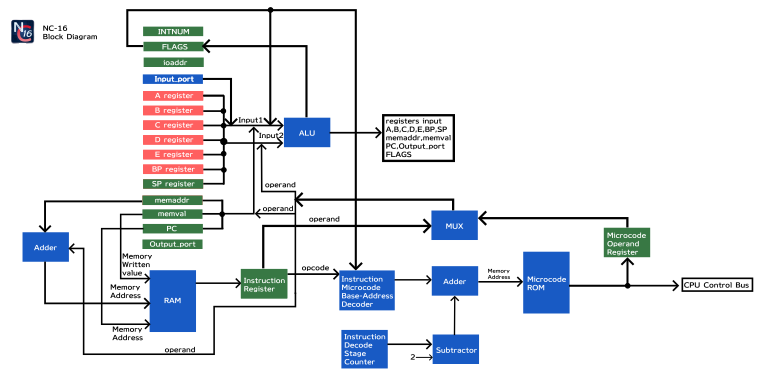
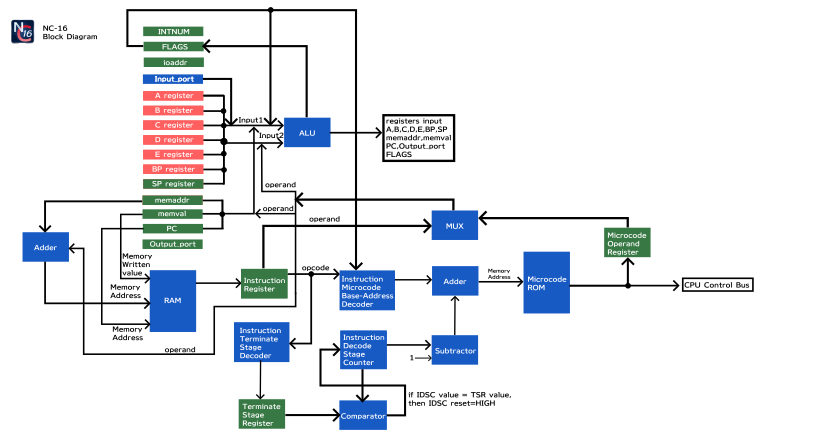
新しい命令デコード方式にドキュメントの記載を変更（回路は未変更）

Changed region(s): [[0.0, 0.0, 0.9948, 1.0]]

diff --git a/doc/Instruction_Decoder_Specification.md b/doc/Instruction_Decoder_Specification.md
@@ -1,11 +1,40 @@
 # Instruction_Decoder_Specification
-## 命令実行までの過程
-　命令の実行はメモリからInstruction Registerに命令とデータを取り込み、その後命令デコーダにオペコードを投入することによって行われます。
+## 命令実行までの過程（概要）
+　本節ではRAMに格納された命令がCPUによって読みだされ実行されるまでの過程について解説します。
 
-　いつ命令を取り込み、どのタイミングで取り込んだ命令を実行するかは、Instruction Decorder付近に配置されているInstruction Fetch Counterによって管理しています。カウンタの値が指定の値になると、命令フェッチ終了=命令実行すべきタイミング、と判断しInstruction Execute信号に1を出力します。命令実行が終了すると、カウンタはゼロにリセットされ、命令フェッチを再開します。
+　現状のNC-16には、他市販CPUで見られるようなパイプライン実行、Out of Order実行等の高速化のための機構は搭載されていません。命令フェッチ、命令解釈、命令実行の各手順をメモリに記載されている順番通りに行うだけです。
 
-　命令カウンタ付近についている部品群は、jmp命令やメモリ操作命令で、命令のフェッチタイミングがずれたときに補正するためのものです。jmp命令やメモリ操作命令で移動中でもクロックはカウンタに入力されます。つまり本来命令をフェッチしていないにも関わらず、フェッチされたという判定になってしまいます。このままだと命令のフェッチタイミングがずれ、正常に命令が取り込まれなくなります。これを防ぐため、適正なカウンタ値となるよう補正処理を行っています。
-　プログラムカウンタ周辺にある部品も同様の理由です。jmp命令やメモリ操作によって、プログラムカウンタの値がずれ正常に命令を取り込めなくなります。補正をかけて正常に命令を取り込めるようにしています。
+　CPUの制御はCPU Control BUSを用いて行われます。CPU Control BUSに、CPUに行わせたい処理に応じた信号を出力した状態でクロックを立ち上げると所定の処理が行われます。命令デコーダ部はメモリから読み取った命令種別に応じて、適切なタイミングで適切な信号をCPU Control BUSに流す役割を負っています。
+
+　命令デコードは複数の"ステージ"に分割されます。ステージとは命令デコードの段階を表す用語です。命令デコードにおいては、ある段階ではRAMから命令をロードする、ある段階では命令を実行する、のように段階ごとに実行すべき事柄は変わります。ハードウェアロジックでこれらの処理を直接組もうとすると回路が大変複雑になりますから、「今どのステージを実行しているのか」を表す値を別途持っておいて、その値に応じて各部の処理が変化するようにしています。
+
+　ステージの実体は8bitの符号なし整数です。処理が進むごとに0ステージ目、1ステージ目……のように1ずつカウントアップしていきます。ステージはクロックが立ち上がる時カウントアップします。ステージの値はIDSCで管理しています。
+
+　一つの機械語には複数のマイクロコードが対応します（一つのマイクロコードが対応する場合もあります）。マイクロコードとはCPUの処理を機械語よりも細かい単位で記述したものであり、NC-16ではCPU Control BUS信号の羅列を指します（厳密には異なる。詳細は後述）。マイクロコードはMicrocode ROMに格納されています。どの機械語にどのマイクロコードを対応させるか、すなわちどの機械語に該当のマイクロコードが格納されているベースアドレスを対応させるか、といった対応付けはIMBDで行われています。
+
+　命令は次の手順で実行されます。
+1. 0ステージ目：RAMからIRへオペコードを転送する。
+2. 1ステージ目：RAMからIRへオペランドを転送する。
+3. 2ステージ目：
+   1. IMBDにオペコードを入力し、機械語に対応するマイクロコードが格納されているメモリアドレスをMicrocode ROMに入力する。2ステージ目終了時、Microcode ROMに格納されているマイクロコードが実行される。マイクロコードの終端ステージ数もこのステージで併せて出力する。終端ステージ数とは、指定したベースアドレスから何個のマイクロコードが格納されているかを表す値である。末尾のマイクロコードの次のマイクロコードが実行された時点におけるステージ数を出力する。例えば一つの機械語に対し2つのマイクロコードが対応している場合、終端ステージ数は1+2+1=5となる。
+   2. 2ステージ目以降のステージでは、IDSCのリセットによって0ステージ目に復帰するまで、PCへのクロック供給を停止する。
+4. 3ステージ目以降：Microcode ROMに格納されているマイクロコードを実行する。終端ステージ数に達した場合は、IDSCにリセット信号を送出し、0ステージ目に戻る。実行フェーズは終了し命令フェッチのフェーズに戻る。
+
+## 各部解説
+　命令デコードに関わる部品を解説します。
+### Instruction Register(IR)
+　メモリから読みだした命令を格納するレジスタです。実体は16bit X 2のシフトレジスタです。
+### Instruction Microcode Base-address Decoder(IMBD)
+　オペコードに対応するマイクロコードが格納されているアドレスを、IRから与えられたオペコードを元に算出します。
+### Instruction Decode Stage Counter(IDSC)
+　命令デコードのステージ数をカウントします。
+### Instruction Terminate Stage Decoder
+　オペコードに対応した終端ステージ数を出力します。
+### Terminate Stage Register
+　現在の終端ステージ数を格納します。
+### Microcode ROM
+　マイクロコードが格納されているROMです。
+
 ## Instruction Decorder仕様
 1ビットのInstruction Execute信号、2ビットのFLAGS信号、16ビットのオペコードを20ビットのCPU制御信号に変換します。CPU制御信号（CPU Control Bus）の仕様は次の通りです。
 
